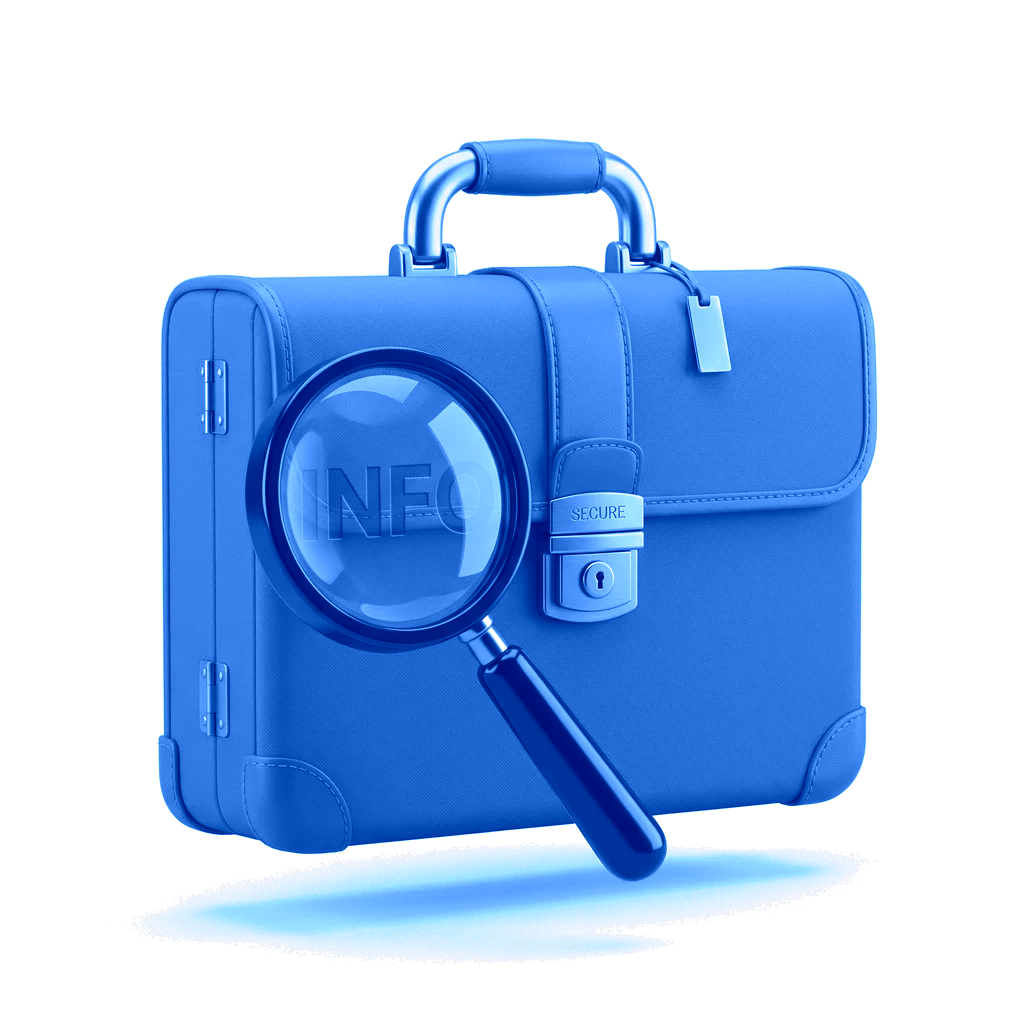
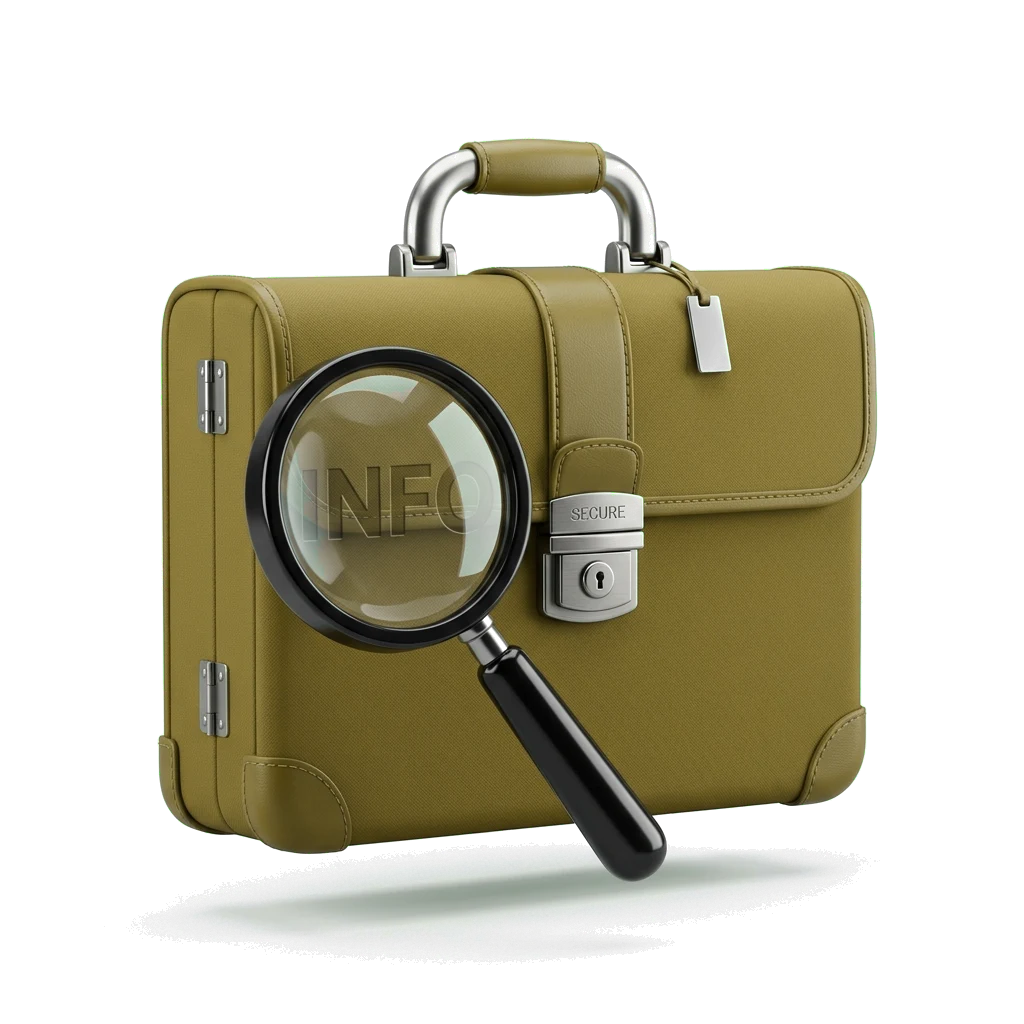
Put the blue briefcase on a yellow halo, and quiet the stats
Reverts the baked-in recolour from #44. Rewriting the render's pixels was the
wrong lever: it burned a second lossy generation into an asset whose master we
cannot fetch, and it left the change invisible to anyone reading the styles.
Both files go back byte-for-byte to what they were before that commit.

The hue swing moves into CSS instead, as a filter on the two img tags. It is
explicitly a stopgap -- the values are tuned to these two files and are
meaningless on any other image -- and the comment above them says to delete it
outright rather than retune it when renders arrive in the brand palette.

The halo inverts to match the logo's own construction: blue mark on a yellow
field, not blue on blue. The disc takes --action-subtle, and the first two
dots swap so they still register against yellow -- blue moves to the 12px dot,
yellow to the 8px one, which also comes up to 0.9 since yellow at 0.6 on a
yellow wash disappeared. The 14px --blue-300 dot is unchanged.

The stat figures drop to 0.65. The old comment called 0.9 a hard WCAG floor,
which was the wrong frame: that threshold governs text that has to be read,
and this strip is a decorative summary whose labels carry the meaning. The
comment now says which of the two it is, so the next person does not read it
as licence to dim real copy.

diff --git a/prime-hospitality/src/screens/HomeScreen.tsx b/prime-hospitality/src/screens/HomeScreen.tsx
@@ -360,7 +360,7 @@ export default function HomeScreen({ onJobSelect, onSearchPress, onBellPress, un
                   width: 177,
                   height: 172,
                   borderRadius: "50%",
-                  background: "var(--blue-100)",
+                  background: "var(--action-subtle)",
                   display: "flex",
                   alignItems: "center",
                   justifyContent: "center",
@@ -368,14 +368,21 @@ export default function HomeScreen({ onJobSelect, onSearchPress, onBellPress, un
                   flexShrink: 0,
                   marginLeft: 8
                 }}>
-                  <div style={{ position: "absolute", width: 12, height: 12, borderRadius: "50%", background: "var(--action)", top: 10, left: -18, opacity: 0.9 }} />
-                  <div style={{ position: "absolute", width: 8, height: 8, borderRadius: "50%", background: "var(--brand)", bottom: 22, left: -8, opacity: 0.6 }} />
+                  <div style={{ position: "absolute", width: 12, height: 12, borderRadius: "50%", background: "var(--brand)", top: 10, left: -18, opacity: 0.9 }} />
+                  <div style={{ position: "absolute", width: 8, height: 8, borderRadius: "50%", background: "var(--action)", bottom: 22, left: -8, opacity: 0.9 }} />
                   <div style={{ position: "absolute", width: 14, height: 14, borderRadius: "50%", background: "var(--blue-300)", top: 40, right: -12, opacity: 0.7 }} />
+                  {/* The filter is a stopgap. These two renders still ship in the
+                      old green palette, and this swings them to brand blue in the
+                      browser — the values are tuned to these exact files and mean
+                      nothing on any other image. Delete the filter outright the
+                      moment fresh renders arrive in the brand palette; do not
+                      carry it forward or retune it for a different asset. */}
                   <img
                     src="/hero_illustration.webp"
                     alt="Briefcase illustration"
                     style={{
                       position: "absolute", top: -11, left: -11, width: 184, height: 207, objectFit: "contain", mixBlendMode: "multiply",
+                      filter: "brightness(0.92) saturate(2.4) hue-rotate(172deg) contrast(1.05)",
                       opacity: isDark ? 0 : 1, transition: "opacity 0.3s ease"
                     }}
                   />
@@ -384,6 +391,7 @@ export default function HomeScreen({ onJobSelect, onSearchPress, onBellPress, un
                     alt="Briefcase illustration dark"
                     style={{
                       position: "absolute", top: -11, left: -11, width: 184, height: 207, objectFit: "contain", mixBlendMode: "screen",
+                      filter: "brightness(0.92) saturate(2.4) hue-rotate(172deg) contrast(1.05)",
                       opacity: isDark ? 1 : 0, transition: "opacity 0.3s ease"
                     }}
                   />
@@ -639,9 +647,14 @@ export default function HomeScreen({ onJobSelect, onSearchPress, onBellPress, un
                     fontWeight: 800,
                     color: stat.valueColor,
                     // Softened so three bold blue figures in a row stop competing
-                    // with the CTA. 0.9 is the floor: at 15px/800 this is normal
-                    // text for WCAG, and 0.85 already drops it under 4.5:1.
-                    opacity: 0.9,
+                    // with the hero CTA and the job-card titles below — the strip
+                    // is a caption for the feed, not a headline.
+                    // This sits under the 4.5:1 that body text has to hold, which
+                    // is deliberate: the figure is a decorative summary and the
+                    // label beneath it carries the meaning, so nothing is lost if
+                    // the number is read as texture. Do not copy this value onto
+                    // text that has to be read.
+                    opacity: 0.65,
                     lineHeight: 1,
                     marginBottom: 2,
                   }}
